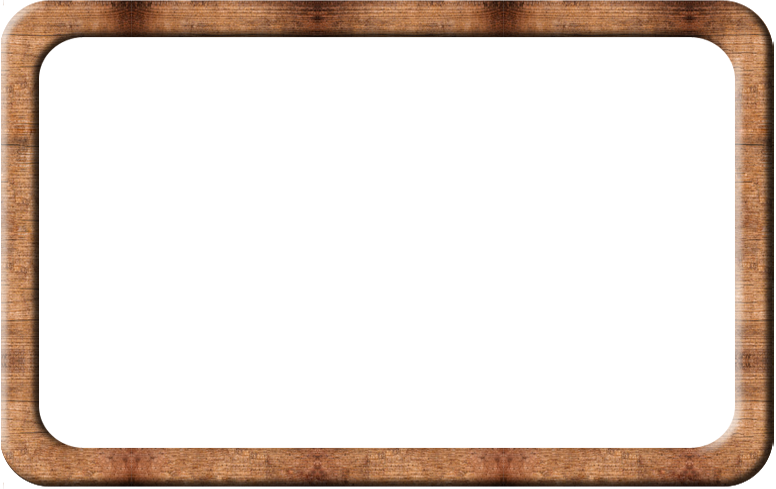
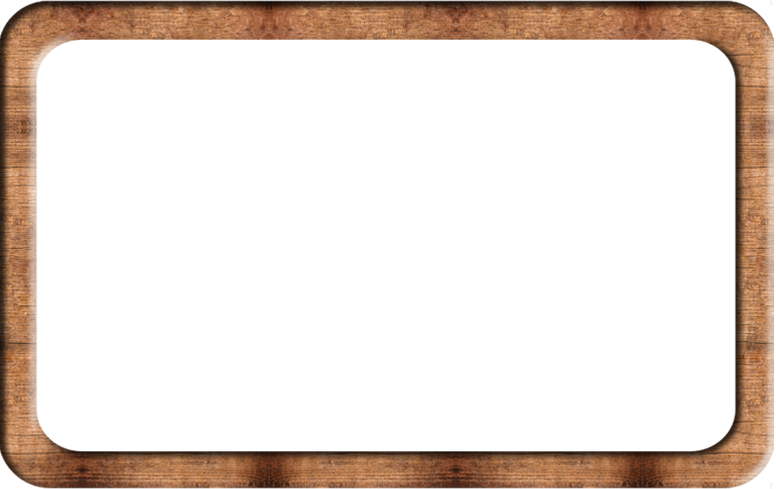
resetAll btn

Changed region(s): [[0.0, 0.0, 1.0, 1.0]]

diff --git a/abacus_centered.html b/abacus_centered.html
@@ -530,8 +530,8 @@ height:5px;
 .beads-layer{
 position:absolute;
 top:47px;
-left:-45px;
-width:700px;
+left:-47px;
+width:695px;
 height:370px;
 display:flex;
 flex-direction:column;
@@ -544,7 +544,7 @@ padding:3px;
 
 <body>
 
-    <div class="abacus-title">
+    <div class="abacus-title"><img src="images/ytmath_logo.png" style="width:90px; margin-bottom:-30px; margin-top:-50px; margin-right:0px;"/>
         YarnTale Math Playground: <span style="color: #5a8d8a;">Interactive Abacus</span>
     </div>
 
@@ -769,24 +769,36 @@ left.appendChild(right.firstChild)
 })
 
 rows.forEach(row=>{
-
 const place = parseFloat(row.dataset.place)
-
 const right = row.querySelector(".right")
 const left = row.querySelector(".left")
-
 const digit = Math.floor(value/place)%10
-
 for(let i=0;i<digit;i++){
 const bead = left.lastElementChild
 if(bead) right.appendChild(bead)
 }
-
 })
-
 updateNumber()
-
 }
+
+
+
+
+function resetAll(){
+const rows = document.querySelectorAll(".row")
+rows.forEach(row => {
+    const left = row.querySelector(".left")
+    const right = row.querySelector(".right")
+    // переносим все косточки обратно влево
+    while(right.firstChild){
+        left.appendChild(right.firstChild)
+    }
+})
+// обновляем число
+updateNumber()
+}
+
+
 
 </script>
 </body>
